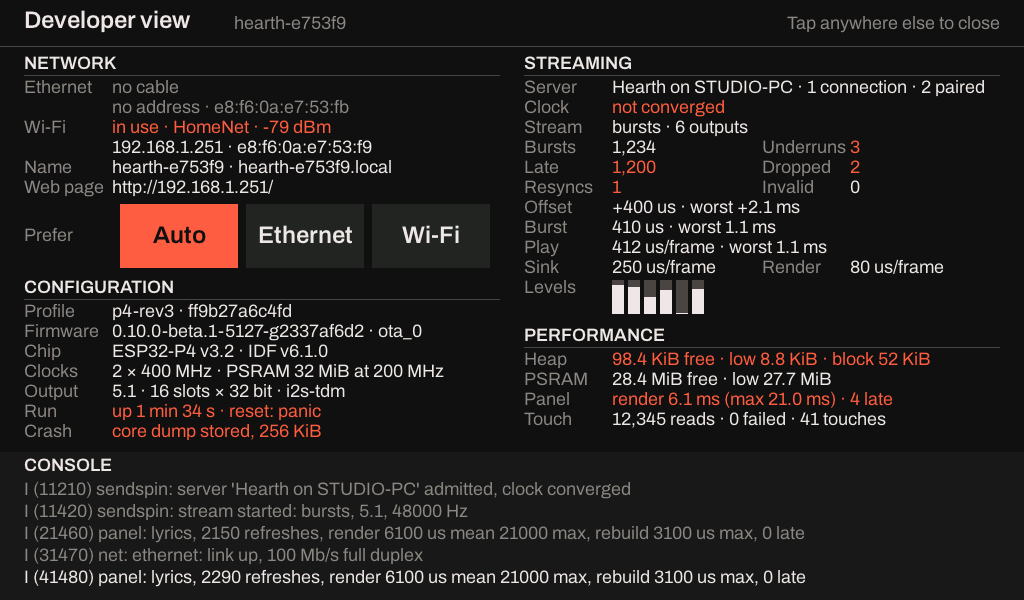
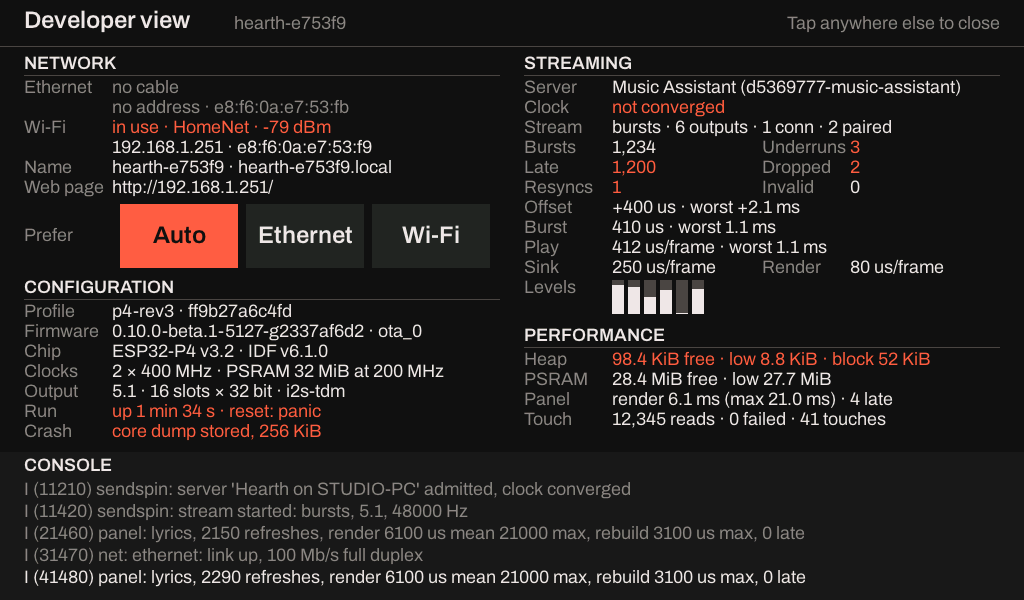
docs(esp32): the developer view on the kit: what was tried, what it showed, what is owed
The plan's work section for the first run on the kit (the taps, the preference, the three things the
preview could not show, a Sendspin play with the view open against shut), the pictures drawn again from
the fixed code, and the refresh rate in the page, the plan and the changelog.

Changed region(s): [[0.5938, 0.12, 0.9688, 0.24], [0.5938, 0.66, 0.875, 0.69]]

diff --git a/planning/karaoke-p4x-panel.md b/planning/karaoke-p4x-panel.md
@@ -332,7 +332,9 @@ have it otherwise:
   the view says "Switching..." until the board has the preference (a change that does not take is
   called refused after 45 s). Nothing is invented: the REST route, the NVS key and the verification
   (D9) are #1608's.
-- **A refresh twice a second**, and only while the view is open; the facts are read from what the
+- **A refresh once a second** (every two seconds while a stream plays, and the network, whose
+  signal is a call across SDIO to the C6, every two seconds and every ten while one plays), and only
+  while the view is open; the facts are read from what the
   board already keeps (`dev_info.cpp`), the text is `iclforge/dev_view.hpp`'s (libs/device, with host
   tests), and a label's text is set only when it changed, so what is redrawn is the numbers that
   moved. The console is read from a cursor, a few hundred bytes at a time, and not at all while the
@@ -891,6 +893,56 @@ glitched play, not a failure, and it is not the cable's.
 update path above has been run with the cable alone); 10 Mbit/s or half duplex; a static address;
 IPv6; a long soak; a DHCP server that is slow (boot waits 15 s for the cable's address under `auto`
 and then joins the Wi-Fi, the cable going on asking).
+
+### The developer view on the kit (2026-10-21)
+
+[D10](#d10-the-developer-view-2026-10-21) built and run on the kit over the cable (`p4-rev3`, hash
+`ff9b27a6c4fd`, three images OTA-pushed and accepted, the last `v0.10.0-beta.1-5143-g54e3b9ef4`).
+Everything was done with `POST :8081/panel/tap` (three requests, each holding the pointer down 120 ms
+and 60 ms after, so 235 to 265 ms apart) and `GET :8081/panel.bmp`; a finger on the glass is [owed](#the-developer-view-owed).
+
+| Tried | Result |
+|---|---|
+| Three taps at (100, 568) | the view opened (`dev_view` true in `GET :8081/panel`) |
+| A tap at (900, 300) half a second or more later | closed; `screen` and the picture are the idle screen's again |
+| The view's contents against the board | the network (the cable in use, 100 Mb/s full duplex, both addresses and MACs, the SSID and -33 to -36 dBm), the profile and hash, the version and `ota_1`, ESP32-P4 v3.2 at 2 x 400 MHz with 32 MiB of PSRAM, `2.0 - 16 slots x 32 bit - i2s_wide`, uptime, `reset: wdt`, **"core dump stored, 12.7 KiB"** (`ota.py status` says 12,960 bytes: a real one, left by the other session's panic image), the heap (231 to 255 KiB free, block 204 to 232 KiB) and the console's last lines, which were the board's own (`network: preference ethernet asked for, is auto`, the C6's RPC errors when the station stopped) |
+| The preference: Wi-Fi tapped, then Cancel | the confirming step showed ("Use Wi-Fi only? The cable is switched off. The board is on the cable now: this page's address changes to ..."); Cancel changed nothing (`GET /status` still `auto`) |
+| Ethernet, Switch | `ethernet` kept in under two seconds, the Wi-Fi off ("off (the preference leaves it out)"), the cable's address still answering |
+| Auto, Switch | both interfaces back, "Done." beside NETWORK for six seconds |
+| Wi-Fi from the pin to the cable | **refused by the screen, wrongly**: the first image blocked it because the station was off and held no address. The board brings an interface that is off up first (`apply()`), so only an enabled cable with no link, or no stored network, is blocked now (host tests); not tried again on the board |
+| Cost of opening, first time | the fonts and the first draw took 350 to 430 ms in one cycle (`cycle_us_max`, 4 late cycles); a refresh then costs the task 5 to 7 ms (`dev_refresh_us_last`) and LVGL's render of what changed 55 to 70 ms, the idle screen's own figure |
+
+**Three things the kit showed that the preview could not.** A server's name longer than its row
+(Music Assistant's `Music Assistant (d5369777-music-assistant)`) wrapped over the row under it: LVGL
+puts dots only in a label of fixed height. **Every refresh cycle was late** (55 to 70 ms of render
+and 40 to 50 ms of reading the board) until the Wi-Fi was pinned off, and stopped being late when it
+was: `network_link()` asks the C6 for the signal across SDIO, the idle screen already does that twice
+a second, and the view's own read doubled it. The view now reads the network at most every two
+seconds (every ten while a stream plays), refreshes once a second (every two while a stream
+plays), and the panel's own late cycles are no longer drawn in the accent colour: they are the
+lowest task's. And `lv_mem_monitor` with the PSRAM heap reports all of PSRAM as LVGL's, so no
+figure of LVGL's use is shown.
+
+**R7, tried: the view open during a Sendspin play** (`hearth-testserver` dialling the Wi-Fi
+address, the suite's AC-3 2.0 programme, 30 s, 938 bursts, the view opened by three taps and the play
+started 2.5 s later; plays alternated closed and open). With the first version of the view (a refresh
+twice a second, the network asked every half second): closed 4 plays, all clean; open 4 plays, three
+clean and one with 3 late chunks, an underrun and a resync. With the version in this change: closed 5
+plays, four clean and one with one late chunk (1,536 lost frames); open 5 plays, four clean and one
+with one late chunk. Every glitch is a start (the first chunk late), the shape the other session
+traced to lwIP's 6-entry TCP mailbox filling, and one of the closed plays had it; nine plays each way
+cannot tell a one-in-four from a one-in-five, and **no underrun, resync or late chunk after a
+start was seen with the view open**. The panel's task is below the decoder and the I2S writer and
+holds none of their locks; the view's drawing is PSRAM traffic that the decoder shares (Q5), and
+that, not the task, is what a longer run would have to measure.
+
+#### The developer view: owed
+
+A finger on the glass (the taps above are the read-back route's: they enter at the same pointer,
+but not through the controller). A Wi-Fi pin from the glass with the corrected rule. A play over
+the cable with the view open. The view with AC-4 5.1 playing, where internal RAM is the scarce thing:
+the view reads the console only while the internal heap has a 4 KB block, and its own allocations
+are PSRAM's or a few hundred bytes.
 
 ## Risks and open questions
 

diff --git a/docs/hearth/sink-esp32-p4.md b/docs/hearth/sink-esp32-p4.md
@@ -188,8 +188,9 @@ screen again.
 
 ![The developer view: the network, the configuration, the stream and the board's performance in two columns, the network preference as three buttons, and the console's last five lines](screenshots/p4-panel-dev-view.png)
 
-Two columns of 18 px type and the console's last five lines under them, brought up to date twice a
-second. This is a page for someone at arm's length, not the two-metre type of the lyrics.
+Two columns of 18 px type and the console's last five lines under them, brought up to date once a
+second (every two while a stream plays, so that its drawing and its questions of the radio
+leave the audio alone). This is a page for someone at arm's length, not the two-metre type of the lyrics.
 
 | Section | What it says |
 |---|---|
@@ -202,7 +203,7 @@ second. This is a page for someone at arm's length, not the two-metre type of th
 **The accent colour means look here**: a counter that is not zero, a radio signal below -75 dBm, a
 clock that has not converged while something plays, a reset by a panic, a watchdog or a brownout
 (`wdt` is not one: it is how this board restarts), a stored core dump, an internal heap that has
-fallen below 16 KB, and drawing that ran late.
+fallen below 16 KB.
 
 ![The same view of a board in trouble: no cable, a weak radio, underruns, late and dropped chunks, a panic reset and a core dump, in the accent colour](screenshots/p4-panel-dev-trouble.png)
 

diff --git a/CHANGELOG.md b/CHANGELOG.md
@@ -85,7 +85,7 @@ The sections below contain the complete change list and fixes.
   clocks, output layout, uptime and reset reason, a stored core dump), the stream (the server, the
   clock, bursts, underruns, late, dropped, resyncs, per-output levels and a play's figures), the
   board's performance (both heaps, the panel's render time, the touch counters) and the console's last
-  five lines, twice a second, with what is wrong in the accent colour. It never shows the Wi-Fi
+  five lines, once a second (every two while a stream plays), with what is wrong in the accent colour. It never shows the Wi-Fi
   passphrase or the Sendspin pairing token.
 - **A control for the network preference, Auto, Ethernet or Wi-Fi**, which asks before it acts
   ("Use Wi-Fi only? The cable is switched off. The board is on the cable now: this page's address
